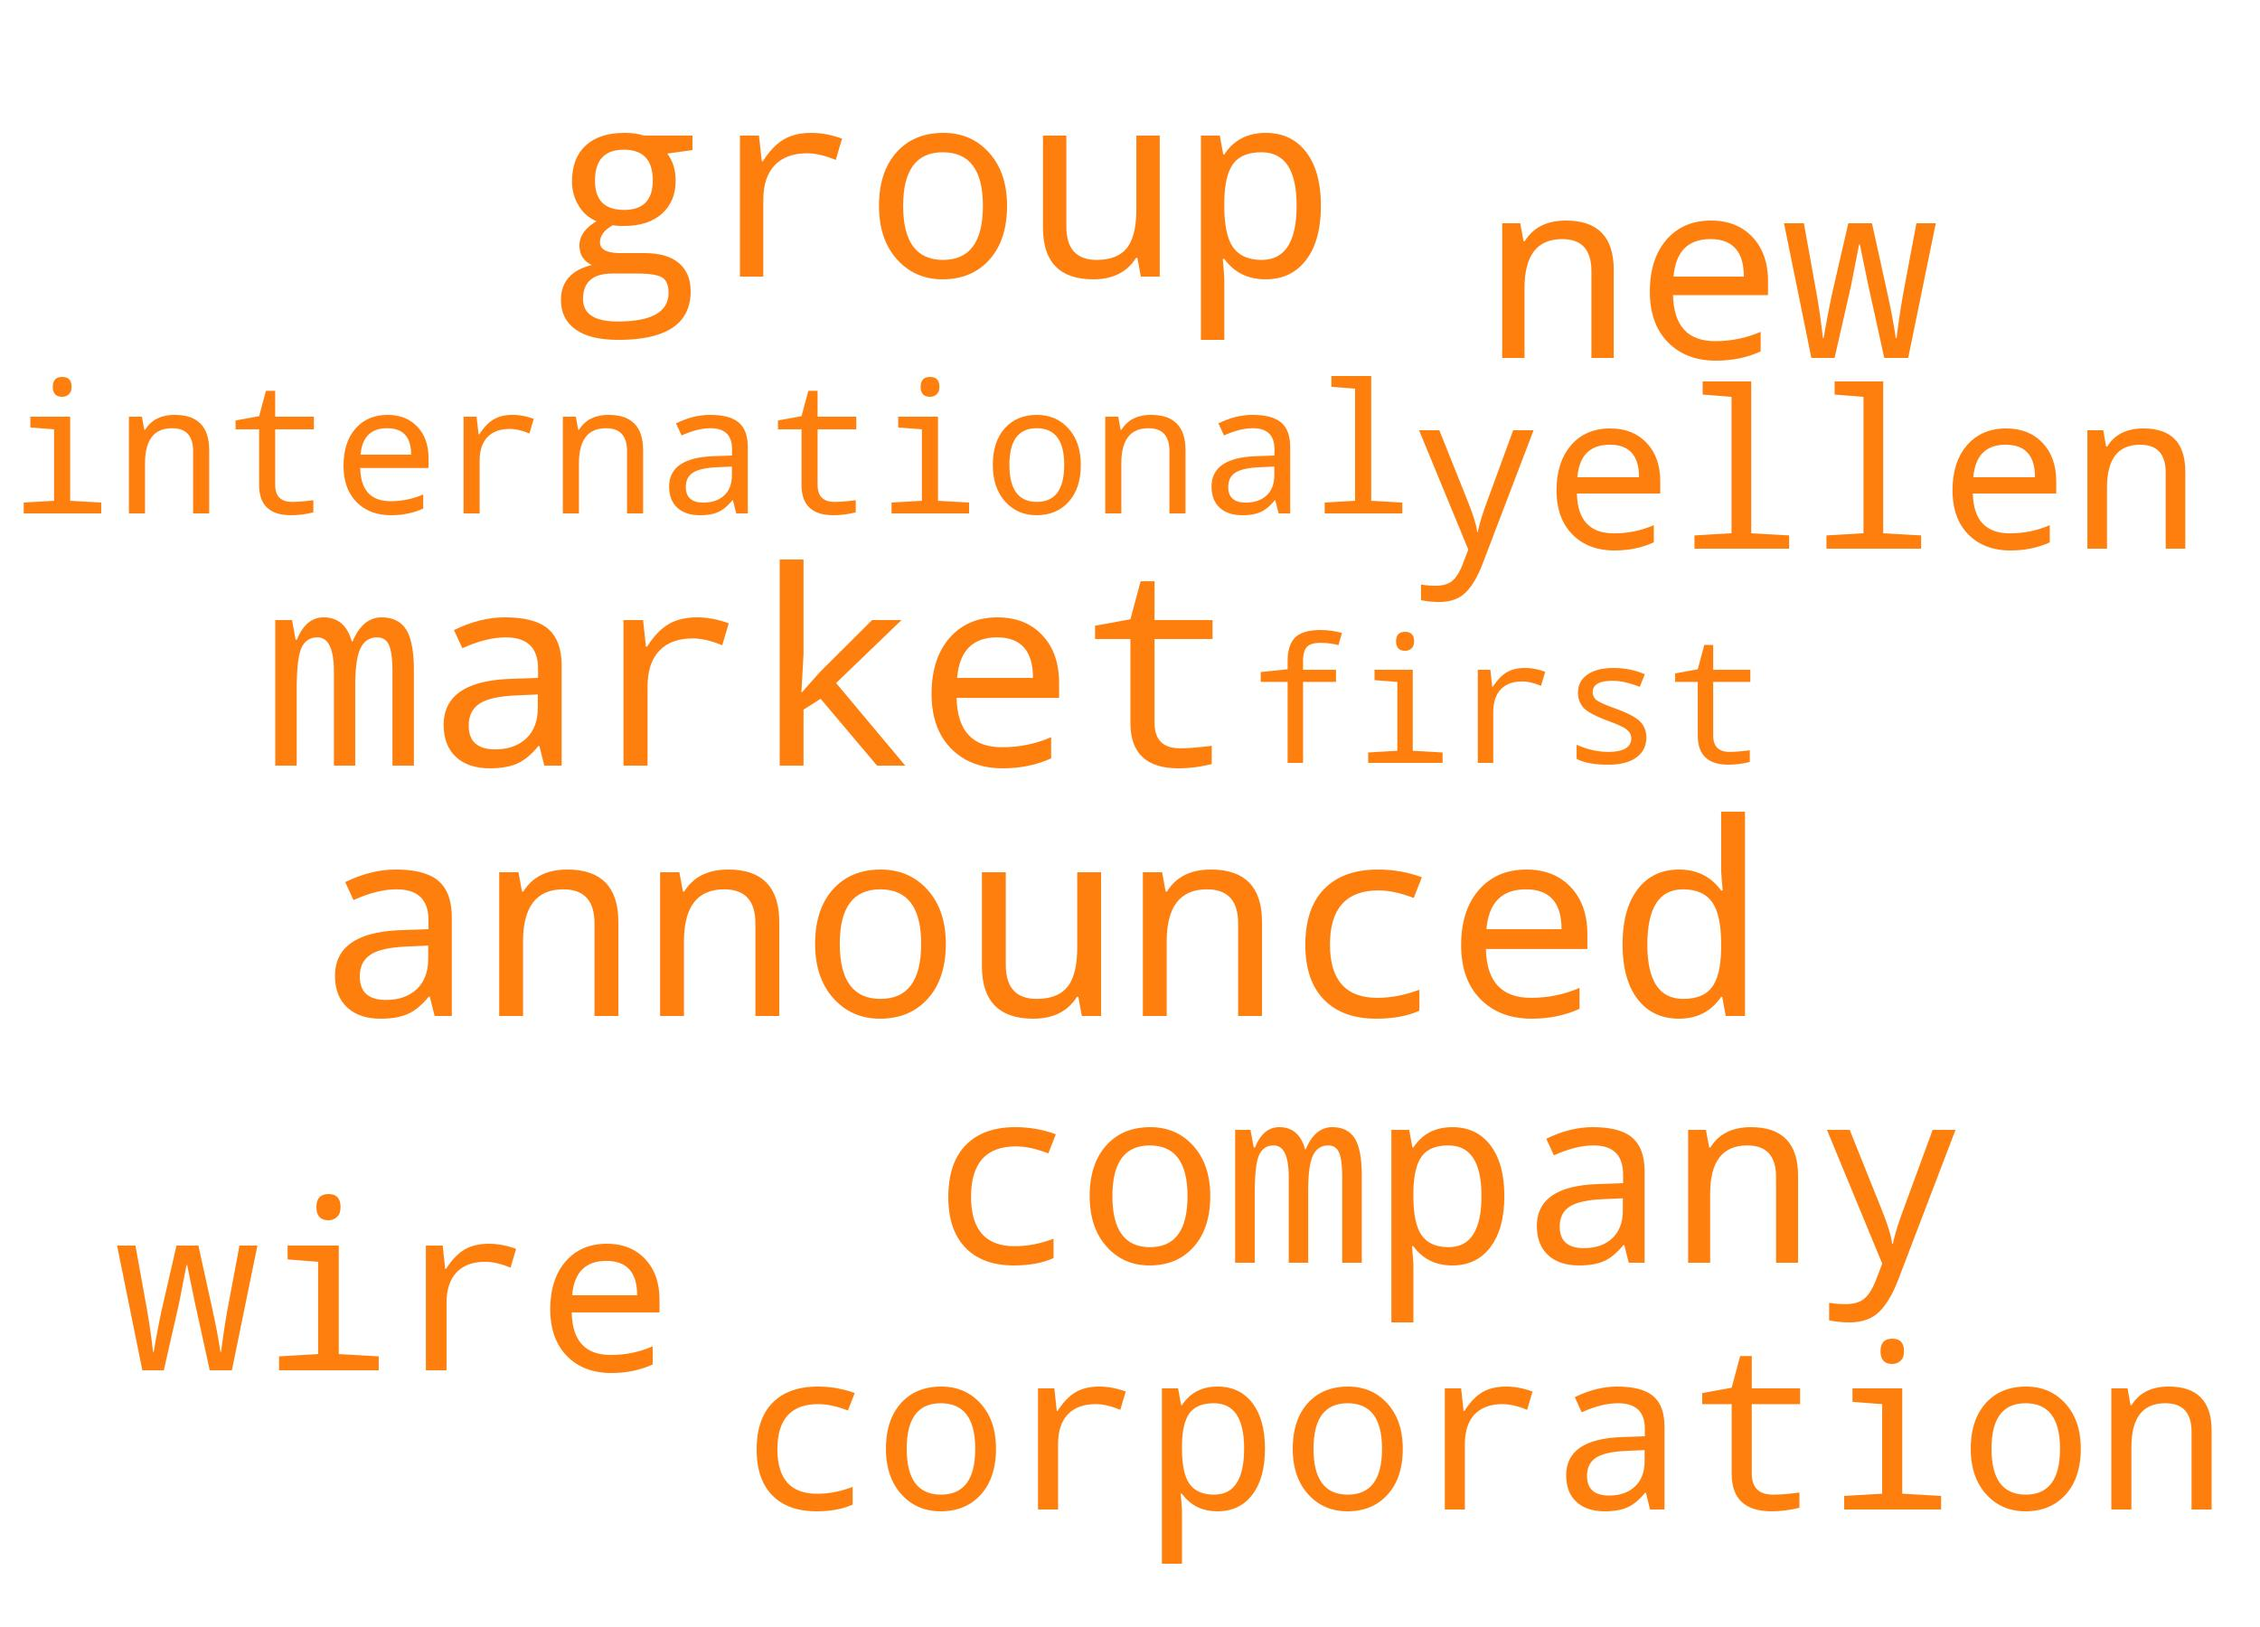
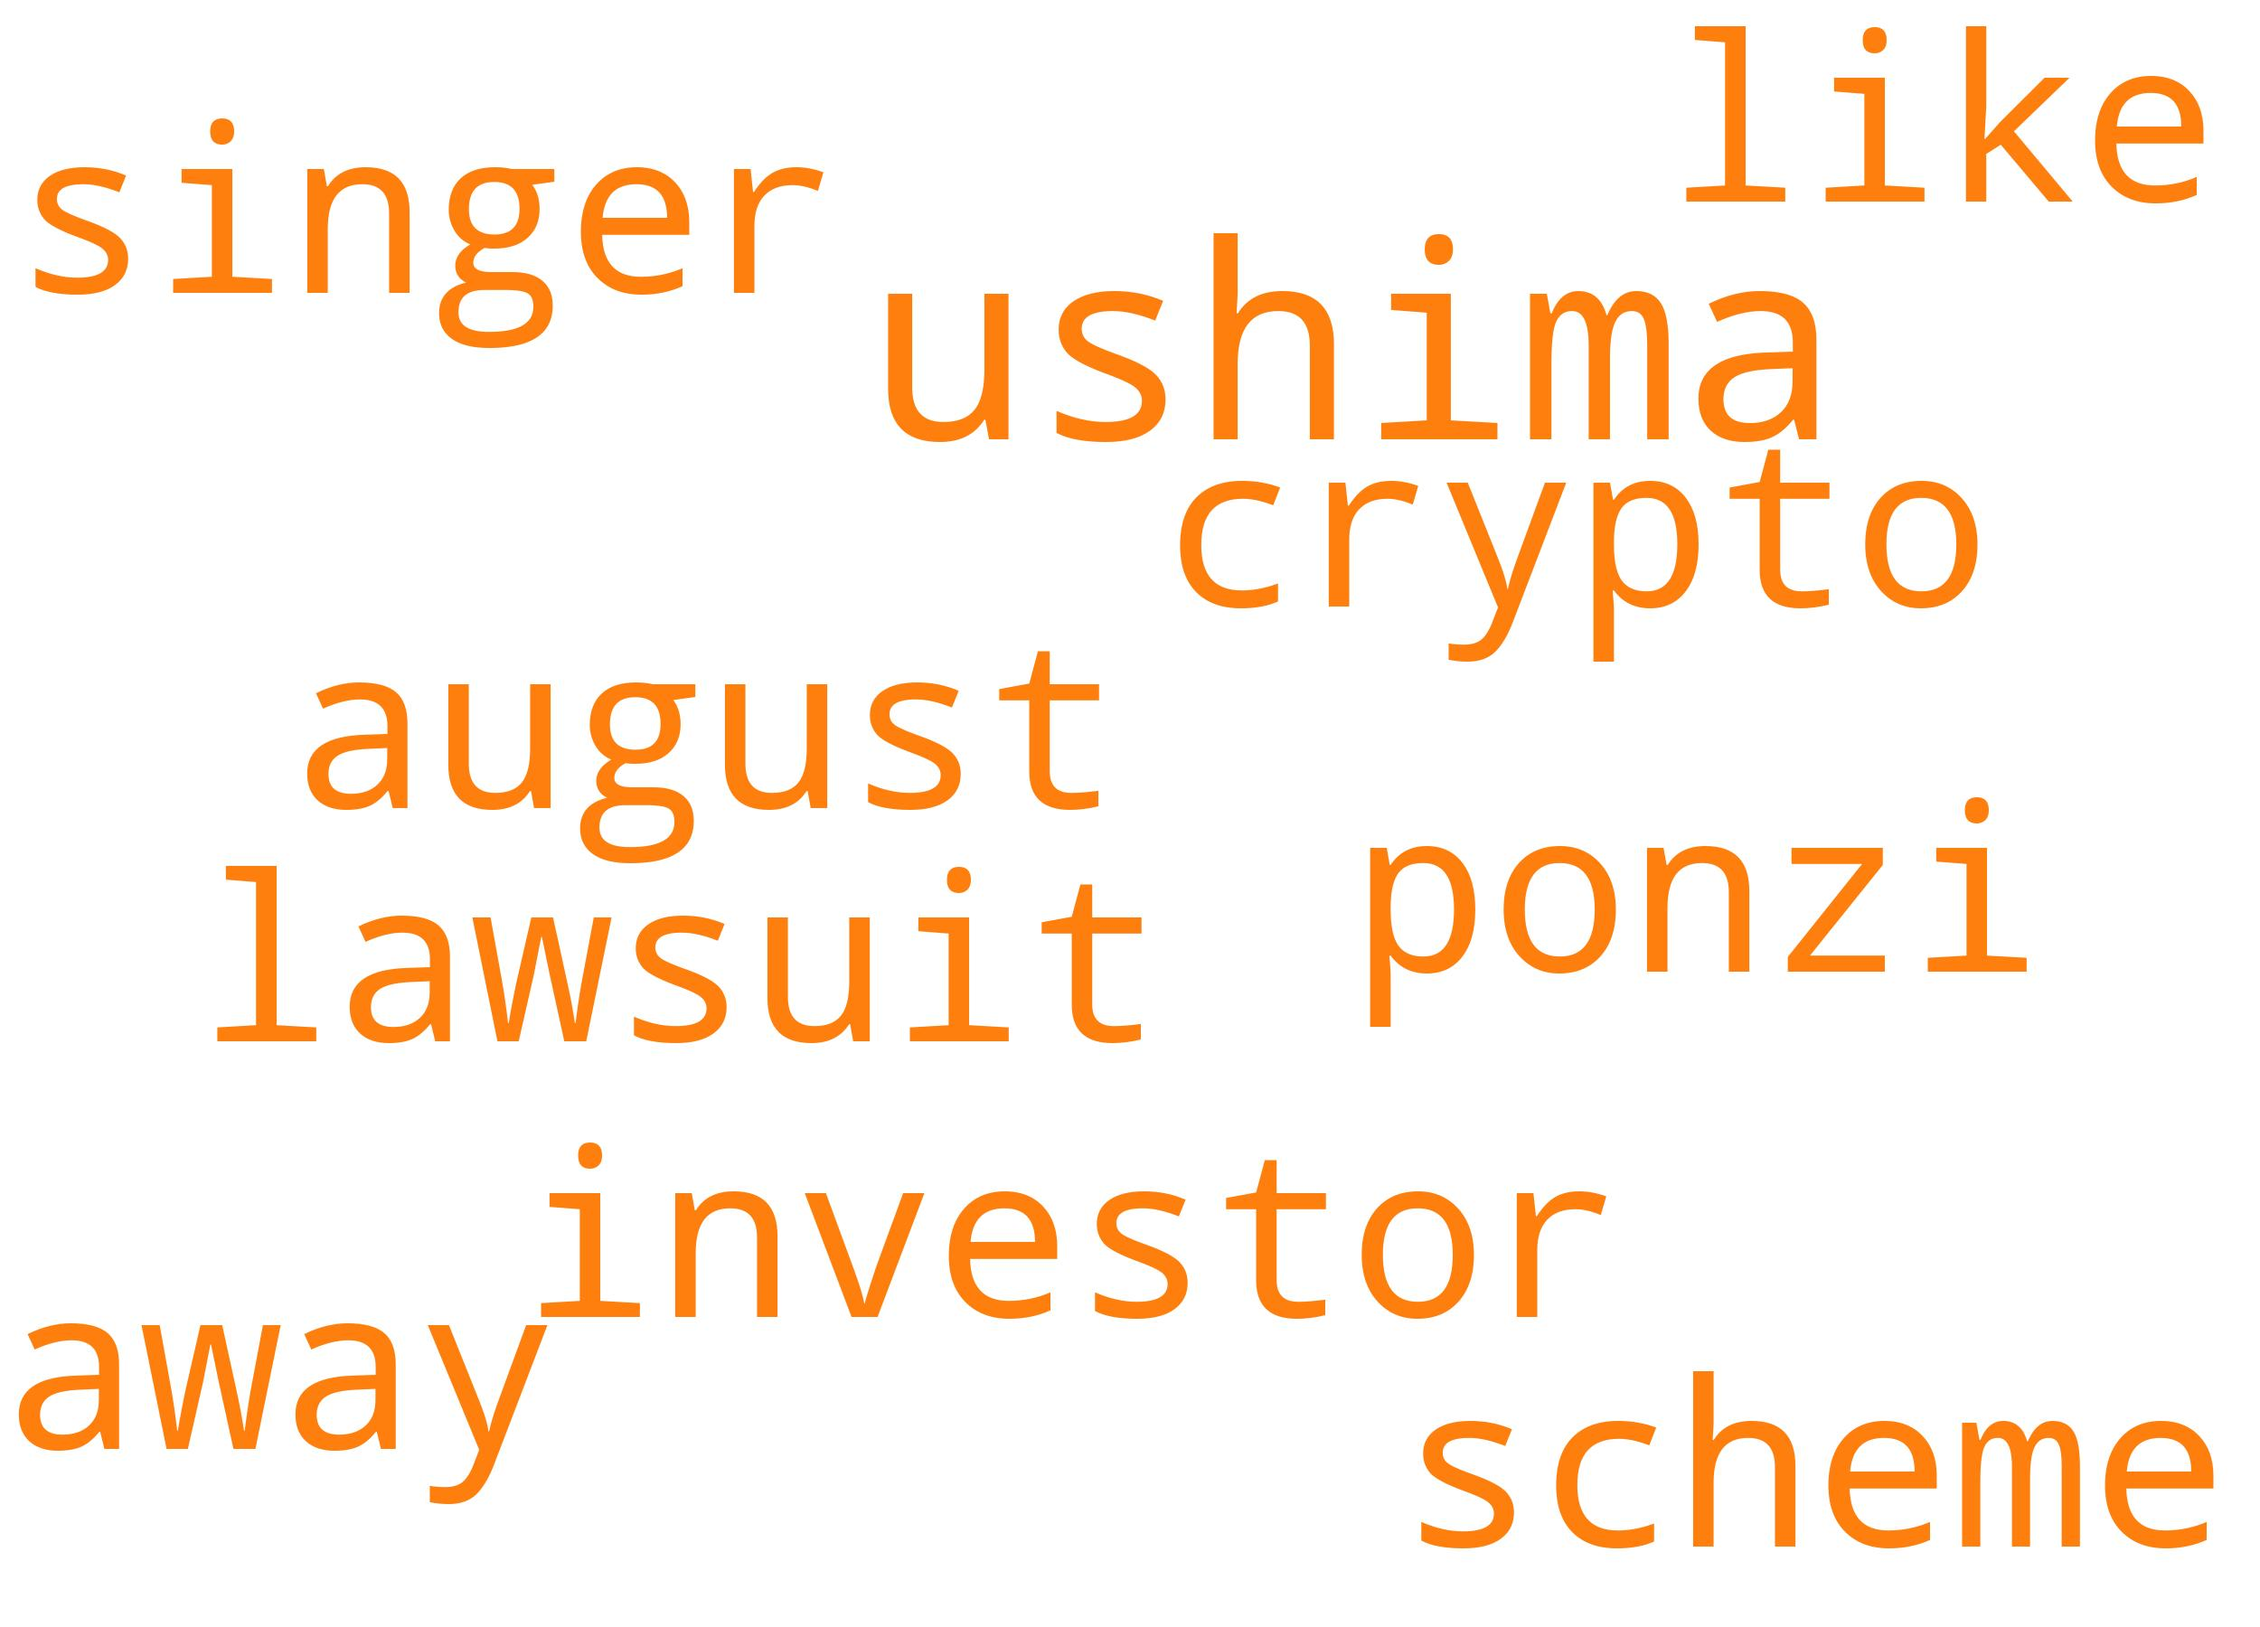
Add cluster and topics

Changed region(s): [[0.0, 0.0, 0.9984, 0.6533], [0.0, 0.6844, 0.9984, 0.9644]]

diff --git a/app/templates/banker_dashboard.html b/app/templates/banker_dashboard.html
@@ -189,6 +189,11 @@
                     <br>
                     <input class="btn btn-primary" type="submit" value="Submit">
                   </form>
+                  <div>
+                    {% for index, wordcloud in images_list %}
+                    <h3>Topic {{index}}: </h3><img src="{{ url_for('static', filename='images/' + wordcloud)}}" height="240px" width="300px">
+                    {% endfor %}
+                  </div>
                 </div>
               </div>
             </div>

diff --git a/app/templates/news.html b/app/templates/news.html
@@ -7,7 +7,6 @@
 		<!-- Wrapper -->
 			<div id="wrapper">
 				<h1>News Resources</h1>
-                <h3> Filter by Date Range </h3>
                 <form action="" method='POST' name="newsform">
                     {{ news_form.csrt_token }}
                     <p>{{ news_form.startdate.label }} {{news_form.startdate(class='datepicker')}} {{news_form.hidden_tag()}}</p>

diff --git a/app/routes.py b/app/routes.py
@@ -211,16 +211,29 @@ def bankerhome():
 @app.route('/banker/dashboard',methods=['GET', 'POST'])
 # @login_required 
 def bankerdashboard():
-
-    if request.method == "POST":
-        topic = request.form["topics"]
+    images_list = []
+    if request.method == "POST":  
+        num_topics = request.form["topics"]
         usergroup = request.form["usergroups"]
-        print("topic: " + topic)
-        print("usergp:" + usergroup)
+        users_df = pd.read_sql('SELECT client_id FROM client_cluster WHERE Cluster_AC = {}'.format(usergroup), db.session.bind)
+        users_list = users_df['client_id'].tolist()
 
+        news_obj = News()
+        news_df = pd.read_sql('SELECT news_id FROM NewsRecord WHERE client_id IN {}'.format(str(users_list).replace("[", "(").replace("]", ")")), db.session.bind)
+        news_list = news_df['news_id'].tolist()
+        filtered_news_df = pd.read_sql('SELECT * FROM Insight WHERE news_id IN {}'.format(str(news_list).replace("[", "(").replace("]", ")")), db.session.bind)
+        print(filtered_news_df)
+        print(news_df)
+        if filtered_news_df.shape[0] > 0:
+            topics = news_obj.topic_modelling(filtered_news_df, num_topics)
+            news_obj.topics_wordcloud(topics)
+            for index in range(int(num_topics)):
+                try:
+                    images_list.append([index+1, "wordcloud_{}.jpg".format(index+1)])
+                except:
+                    continue
+    return render_template('banker_dashboard.html', images_list=images_list)
 
-
-    return render_template('banker_dashboard.html')
 
 @app.route('/banker/dashboard/clientDetails',methods=['GET', 'POST'])
 # @login_required 
